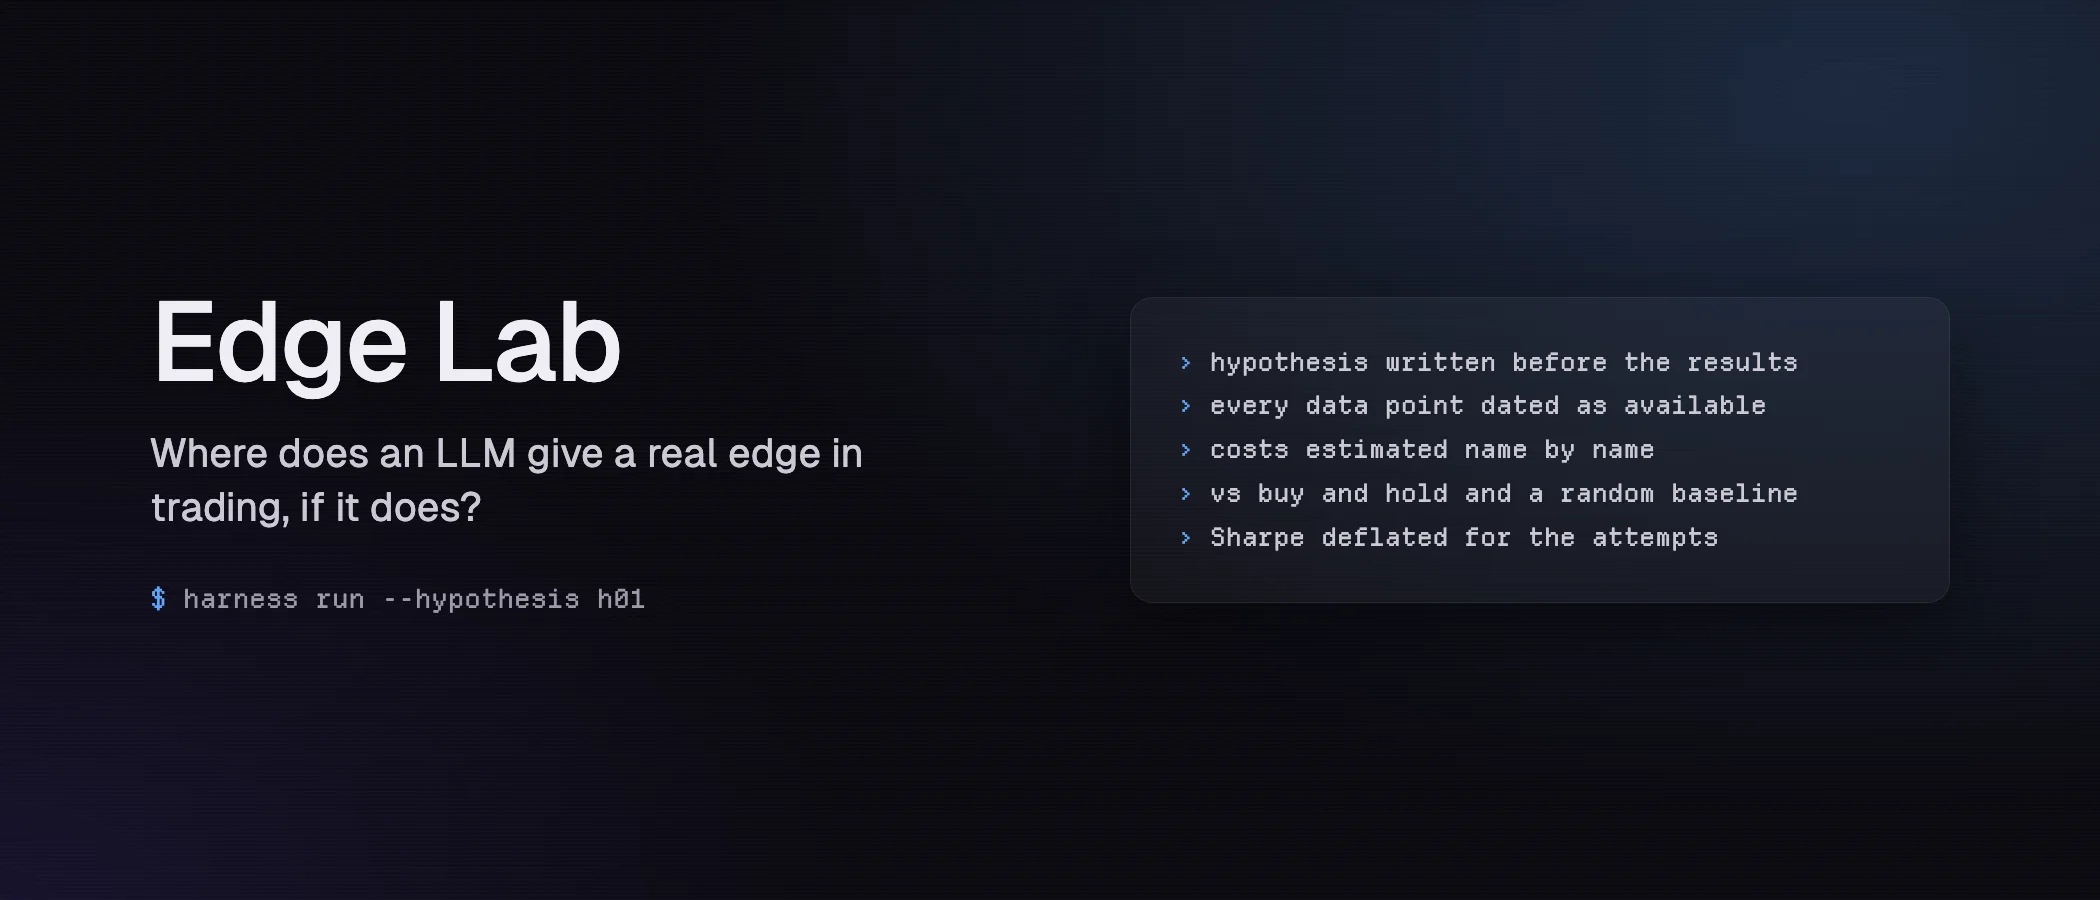
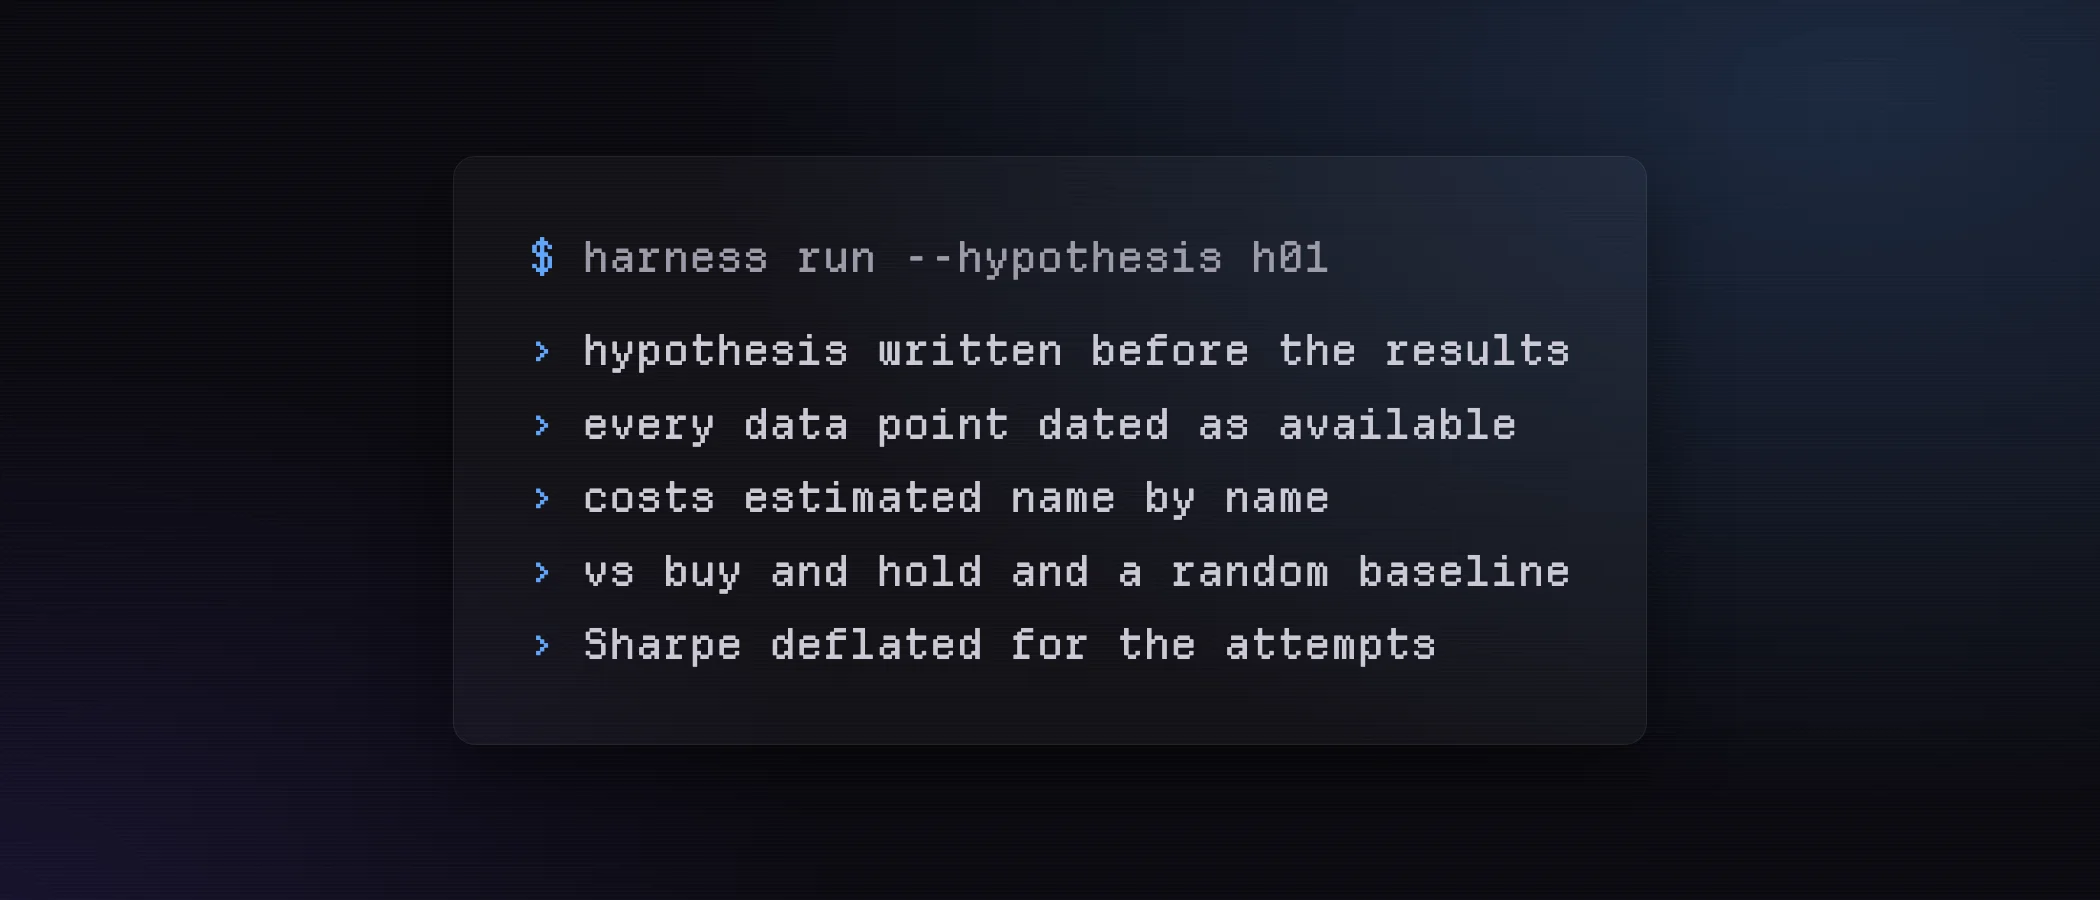
content: designed covers are a single centered panel, no text
The name, tagline and command drawn into a mockup repeated the heading and excerpt
right below and stayed in English on the Italian pages. The panel now sits inside
the 16:9 mobile crop, and a small screenshot is scaled to fill its box.

Changed region(s): [[0.0619, 0.3111, 0.8667, 0.7467], [0.2476, 0.2489, 0.65, 0.3111]]

diff --git a/scripts/render-cover.ts b/scripts/render-cover.ts
@@ -1,39 +1,38 @@
 /**
- * Renders a designed project cover (a mockup, for projects with no interface to show) from a
- * JSON spec, in the site's style: dark ground with the accent's glow, the title in Geist, a
- * prompt line and a panel in Departure Mono. No logo: the project page lays its own over the
- * cover's edge, so a logo here would show twice. Output is a 2100x900 WebP
- * (21:9, the cover's crop on desktop).
+ * Renders a designed project cover, for projects with no interface to show, from a JSON spec:
+ * one panel (code, a list or a small screenshot) centered on the site's dark ground with the
+ * accent's glow. No text besides the panel's: the page names and describes the project right
+ * below the cover, in the visitor's language, and lays its logo over the cover's edge.
+ * Output is a 2100x900 WebP (21:9, the desktop crop); the panel stays inside the central
+ * 16:9 crop used on mobile.
  *
  * Usage: node --experimental-strip-types scripts/render-cover.ts <spec.json> [...]
  *
  * Spec, paths relative to the spec file:
- *   { "title": "pgbee", "tagline": "AI-derived columns for PostgreSQL",
- *     "accent": "#ffd166", "prompt": "select summary from tickets",
+ *   { "accent": "#ffd166", "prompt": "play the next episode",
  *     "panel": { "kind": "code" | "list", "lines": ["..."] } | { "kind": "image", "image": "x.png" },
  *     "out": "cover.webp" }
+ * `prompt` is an optional first line of a code or list panel, after a `$` in the accent.
  *
- * The spec lives next to the cover (`cover.json`) so the cover can be regenerated when a text
- * changes; it is not read by the site.
+ * The spec lives next to the cover (`cover.json`) so the cover can be regenerated; it is not
+ * read by the site.
  */
 import { readFileSync, statSync } from 'node:fs';
-import { createRequire } from 'node:module';
 import { dirname, extname, resolve } from 'node:path';
 import { chromium } from '@playwright/test';
 import sharp from 'sharp';
 
 interface Spec {
-	title: string;
-	tagline: string;
 	accent?: string;
 	prompt?: string;
-	panel?: { kind: 'code' | 'list'; lines: string[] } | { kind: 'image'; image: string };
+	panel: { kind: 'code' | 'list'; lines: string[] } | { kind: 'image'; image: string };
 	out: string;
 }
 
-const require = createRequire(import.meta.url);
+/** The largest box a screenshot fits in: inside the mobile crop, with room for the glow. */
+const BOX = { width: 1500, height: 760 };
+
 const MIME: Record<string, string> = {
-	'.svg': 'image/svg+xml',
 	'.png': 'image/png',
 	'.webp': 'image/webp',
 	'.jpg': 'image/jpeg',
@@ -49,29 +48,31 @@ function dataUrl(path: string): string {
 const escapeHtml = (s: string) =>
 	s.replace(/&/g, '&amp;').replace(/</g, '&lt;').replace(/>/g, '&gt;');
 
-function page(spec: Spec, base: string): string {
+async function page(spec: Spec, base: string): Promise<string> {
 	const accent = spec.accent ?? '#b59cff';
-	const geist = (w: number) =>
-		dataUrl(require.resolve(`@fontsource/geist-sans/files/geist-sans-latin-${w}-normal.woff`));
 	const mono = dataUrl(resolve('src/assets/fonts/DepartureMono-Regular.woff'));
-	let panel = '';
-	if (spec.panel?.kind === 'image') {
-		panel = `<div class="panel shot"><img src="${dataUrl(resolve(base, spec.panel.image))}" alt=""></div>`;
-	} else if (spec.panel) {
+	let panel: string;
+	if (spec.panel.kind === 'image') {
+		const file = resolve(base, spec.panel.image);
+		// Scaled to fill the box: a small screenshot grows a little rather than sit tiny.
+		const { width = 1, height = 1 } = await sharp(file).metadata();
+		const scale = Math.min(BOX.width / width, BOX.height / height);
+		panel = `<div class="panel shot"><img src="${dataUrl(file)}" width="${Math.round(width * scale)}" height="${Math.round(height * scale)}" alt=""></div>`;
+	} else {
+		const kind = spec.panel.kind;
+		const prompt = spec.prompt
+			? `<div class="prompt"><b>$</b> ${escapeHtml(spec.prompt)}</div>`
+			: '';
 		const lines = spec.panel.lines
-			.map((l) => `<div class="line ${spec.panel!.kind}">${escapeHtml(l)}</div>`)
+			.map((l) => `<div class="line ${kind}">${escapeHtml(l)}</div>`)
 			.join('');
-		panel = `<div class="panel">${lines}</div>`;
+		panel = `<div class="panel">${prompt}${lines}</div>`;
 	}
 	return `<!doctype html><html><head><meta charset="utf-8"><style>
-@font-face { font-family: Geist; font-weight: 400; src: url(${geist(400)}) format('woff'); }
-@font-face { font-family: Geist; font-weight: 500; src: url(${geist(500)}) format('woff'); }
 @font-face { font-family: Mono; src: url(${mono}) format('woff'); }
 * { box-sizing: border-box; margin: 0; }
 body {
-	width: 2100px; height: 900px; overflow: hidden; display: grid;
-	grid-template-columns: ${panel ? '1fr 820px' : '1fr'}; align-items: center; gap: 120px;
-	padding: 0 150px; color: #efedf5; font-family: Geist, sans-serif;
+	width: 2100px; height: 900px; overflow: hidden; display: grid; place-items: center;
 	background:
 		radial-gradient(55% 80% at 88% 10%, color-mix(in srgb, ${accent} 20%, transparent), transparent),
 		radial-gradient(40% 60% at 0% 100%, color-mix(in srgb, #6e50ff 12%, transparent), transparent),
@@ -81,23 +82,16 @@ body::after { /* the CRT scanlines of the site, faint */
 	content: ''; position: fixed; inset: 0; pointer-events: none;
 	background: repeating-linear-gradient(transparent 0 3px, rgb(255 255 255 / 0.018) 3px 4px);
 }
-h1 { font-size: 112px; font-weight: 500; letter-spacing: -0.03em; line-height: 1; }
-.tagline { margin-top: 28px; font-size: 40px; line-height: 1.35; color: #cbc9d4; max-width: 900px; }
-.prompt { margin-top: 48px; font-family: Mono; font-size: 26px; color: #9c9aa8; }
-.prompt b { color: ${accent}; font-weight: 400; }
 .panel {
-	border-radius: 22px; padding: 44px 48px; font-family: Mono; font-size: 25px; line-height: 1.75;
+	border-radius: 22px; padding: 64px 76px; font-family: Mono; font-size: 42px; line-height: 1.75;
 	background: rgb(255 255 255 / 0.035); box-shadow: inset 0 0 0 1px rgb(255 255 255 / 0.07), 0 30px 80px rgb(0 0 0 / 0.45);
-	color: #cbc9d4; white-space: pre; overflow: hidden;
+	color: #cbc9d4; white-space: pre; overflow: hidden; max-width: ${BOX.width}px;
 }
-.panel.shot { padding: 0; } .panel.shot img { display: block; width: 100%; }
+.panel.shot { padding: 0; } .panel.shot img { display: block; }
+.prompt { color: #9c9aa8; margin-bottom: 20px; } .prompt b { color: ${accent}; font-weight: 400; }
 .line.list::before { content: '› '; color: ${accent}; }
 .line.code:first-child { color: ${accent}; }
-</style></head><body>
-<div><h1>${escapeHtml(spec.title)}</h1><p class="tagline">${escapeHtml(spec.tagline)}</p>
-${spec.prompt ? `<p class="prompt"><b>$</b> ${escapeHtml(spec.prompt)}</p>` : ''}</div>
-${panel}
-</body></html>`;
+</style></head><body>${panel}</body></html>`;
 }
 
 const specs = process.argv.slice(2);
@@ -110,7 +104,7 @@ const tab = await browser.newPage({ viewport: { width: 2100, height: 900 } });
 for (const file of specs) {
 	const spec = JSON.parse(readFileSync(file, 'utf8')) as Spec;
 	const base = dirname(resolve(file));
-	await tab.setContent(page(spec, base));
+	await tab.setContent(await page(spec, base));
 	await tab.evaluate(() => document.fonts.ready);
 	const out = resolve(base, spec.out);
 	await sharp(await tab.screenshot({ type: 'png' }))
